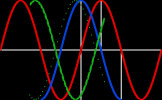
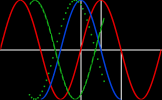
disks

diff --git a/graphics/graph_body.hpp b/graphics/graph_body.hpp
@@ -8,10 +8,14 @@
 #include <utility>
 #include <vector>
 
+#include "numerics/elementary_functions.hpp"
+
 namespace principia {
 namespace graphics {
 namespace _graph {
 namespace internal {
+
+using namespace principia::numerics::_elementary_functions;
 
 template<affine Abscissa, affine Ordinate>
 Graph<Abscissa, Ordinate>::Graph(std::int64_t const width,
@@ -56,7 +60,7 @@ void Graph<Abscissa, Ordinate>::ListPointPlot(
     }
   } else {
     for (auto const& [x, y] : points) {
-      DrawRectangle(x, y, pixel_width_, pixel_height_, colour);
+      DrawDisk(x, y, anti_aliasing_.supersampling, colour);
     }
   }
 }
@@ -82,7 +86,7 @@ void Graph<Abscissa, Ordinate>::Plot(std::function<Ordinate(Abscissa)> const& f,
       f_max = f_x_min;
     }
     for (auto y = f_min; y <= f_max; y += sample_height_) {
-      DrawRectangle(sample_range.midpoint(), y, pixel_width_, pixel_height_, colour);
+      DrawDisk(sample_range.midpoint(), y, 0.5 * anti_aliasing_.supersampling, colour);
     }
   }
 }
@@ -132,8 +136,7 @@ inline void Graph<Abscissa, Ordinate>::AntiAlias() {
     return;
   }
   pixels_.emplace(width_ * height_);
-  std::int64_t const sample_count =
-      anti_aliasing_.supersampling * anti_aliasing_.supersampling;
+  std::int64_t const sample_count = Pow<2>(anti_aliasing_.supersampling);
   for (std::int64_t row = 0; row < height_; ++row) {
     for (std::int64_t column = 0; column < width_; ++column) {
       // TODO(egg): This is bad colour theory.
@@ -197,10 +200,15 @@ std::int64_t Graph<Abscissa, Ordinate>::abscissa_to_sample(
 
 template<affine Abscissa, affine Ordinate>
 Interval<Abscissa> Graph<Abscissa, Ordinate>::sample_to_abscissa_range(
-    std::int64_t i) const {
+    std::int64_t const i) const {
   return {
       (i - 0.5 * anti_aliasing_.supersampling) * sample_width_ + x_range_.min,
       (i + 0.5 * anti_aliasing_.supersampling) * sample_width_ + x_range_.min};
+}
+
+template<affine Abscissa, affine Ordinate>
+Abscissa Graph<Abscissa, Ordinate>::sample_to_abscissa(std::int64_t const i) const {
+  return i * sample_width_ + x_range_.min;
 }
 
 template<affine Abscissa, affine Ordinate>
@@ -211,11 +219,17 @@ std::int64_t Graph<Abscissa, Ordinate>::ordinate_to_sample(
 }
 
 template<affine Abscissa, affine Ordinate>
+Ordinate Graph<Abscissa, Ordinate>::sample_to_ordinate(
+    std::int64_t const i) const {
+  return y_range_.max - i * sample_height_;
+}
+
+template<affine Abscissa, affine Ordinate>
 void Graph<Abscissa, Ordinate>::DrawRectangle(Abscissa const x,
-                                          Ordinate const y,
-                     Difference<Abscissa> width,
-                     Difference<Ordinate> height,
-                     RGB24 colour) {
+                                              Ordinate const y,
+                                              Difference<Abscissa> const width,
+                                              Difference<Ordinate> const height,
+                                              RGB24 const colour) {
   std::int64_t const first_row =
       abscissa_to_sample(x - (width - sample_width_) * 0.5);
   std::int64_t const last_row =
@@ -233,10 +247,29 @@ void Graph<Abscissa, Ordinate>::DrawRectangle(Abscissa const x,
 }
 
 template<affine Abscissa, affine Ordinate>
-void Graph<Abscissa, Ordinate>::DrawDisk(Abscissa x,
-                                         Ordinate y,
+void Graph<Abscissa, Ordinate>::DrawDisk(Abscissa const x,
+                                         Ordinate const y,
                                          double r,
-                                         RGB24 colour) {}
+                                         RGB24 const colour) {
+  r *= 1;
+  double const r² = Pow<2>(r);
+  std::int64_t const first_row = abscissa_to_sample(x - r * sample_width_);
+  std::int64_t const last_row = abscissa_to_sample(x + r * sample_width_);
+  // Note the signs: `ordinate_to_sample` is decreasing.
+  std::int64_t const first_column = ordinate_to_sample(y + r * sample_height_);
+  std::int64_t const last_column = ordinate_to_sample(y - r * sample_height_);
+  for (std::int64_t row = first_row; row <= last_row; ++row) {
+    auto const x_sample = sample_to_abscissa(row);
+    for (std::int64_t column = first_column; column <= last_column; ++column) {
+      auto const y_sample = sample_to_ordinate(column);
+      if (Pow<2>((x_sample - x) * inverse_sample_width_) +
+              Pow<2>((y_sample - y) * inverse_sample_height_) <
+          r²) {
+        SetSample(row, column, Opaque(colour));
+      }
+    }
+  }
+}
 
 template<affine Abscissa, affine Ordinate>
 void Graph<Abscissa, Ordinate>::SetSample(std::int64_t const column,

diff --git a/graphics/graph.hpp b/graphics/graph.hpp
@@ -120,8 +120,10 @@ class Graph {
  private:
   std::int64_t abscissa_to_sample(Abscissa x) const;
   Interval<Abscissa> sample_to_abscissa_range(std::int64_t i) const;
+  Abscissa sample_to_abscissa(std::int64_t i) const;
   // This function is decreasing: `y_range_.max` maps to 0.
   std::int64_t ordinate_to_sample(Ordinate y) const;
+  Ordinate sample_to_ordinate(std::int64_t i) const;
   
   // Draws a rectangle with the given dimensions centred at (x, y).
   void DrawRectangle(Abscissa x,
@@ -129,7 +131,7 @@ class Graph {
                      Difference<Abscissa> width,
                      Difference<Ordinate> height,
                      RGB24 colour);
-  // Draws a disk with a radius of `r` pixels centred at (x, y).
+  // Draws a disk with a radius of `r` samples centred at (x, y).
   void DrawDisk(Abscissa x, Ordinate y, double r, RGB24 colour);
 
   void SetSample(std::int64_t column, std::int64_t row, RGBA32 pixel);
